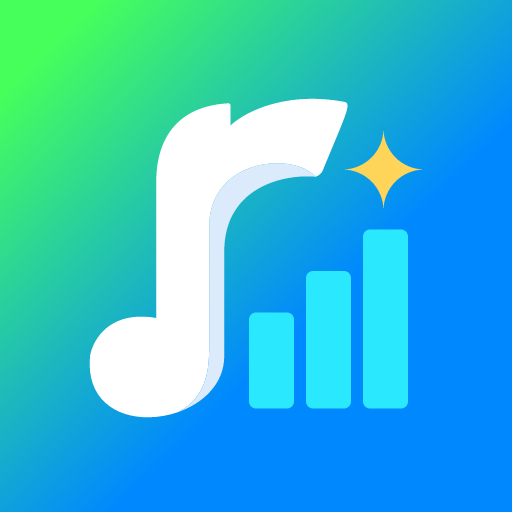
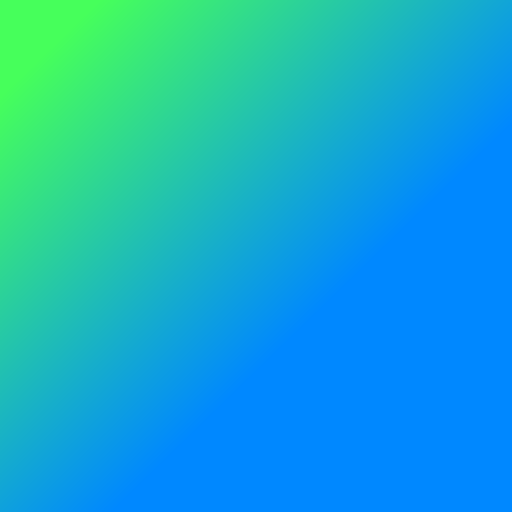
为 Android 自适应图标加入安全区留白，避免启动器过度裁剪。

Changed region(s): [[0.1562, 0.1875, 0.6875, 0.8125], [0.4688, 0.4375, 0.8125, 0.8125], [0.6875, 0.25, 0.8125, 0.4062]]

diff --git a/changelog/2026-07-23_修复Android图标过度裁剪.md b/changelog/2026-07-23_修复Android图标过度裁剪.md
@@ -1,0 +1,22 @@
+# 修复 Android 自适应图标过度裁剪
+
+## 改动原因
+
+安装后启动器图标虽已换为新品牌图，但 Android Adaptive Icon 只保证中间约 66/108 安全区可见；先前把整幅满版图同时用作前景/背景，周边留白落在 bleed 区被遮罩裁掉，图标显得挤满圆角方框。
+
+## 具体实现
+
+- 自 `rRanker icon.svg` 重新导出：
+  - `android-icon-background.png`：满版渐变
+  - `android-icon-foreground.png`：整幅设计按 `66/108` 缩入画布中心，四周透明
+  - `android-icon-monochrome.png`：白剪影同样安全区处理
+  - `icon.png` / `favicon.png` / `source icon.png`：保持原满版观感（iOS/Web）
+- 本地执行 `npx expo prebuild --platform android` 再生 mipmap（`android/` 为 gitignore，不入库）
+
+## 期望输出
+
+Android 启动器遮罩下仍能看到设计稿中的周边留白，主标不再贴边裁切。
+
+## 实际输出
+
+Adaptive 前景资源已带安全区透明边距并写入仓库；需重新 `assembleRelease` 安装后验证桌面图标。
